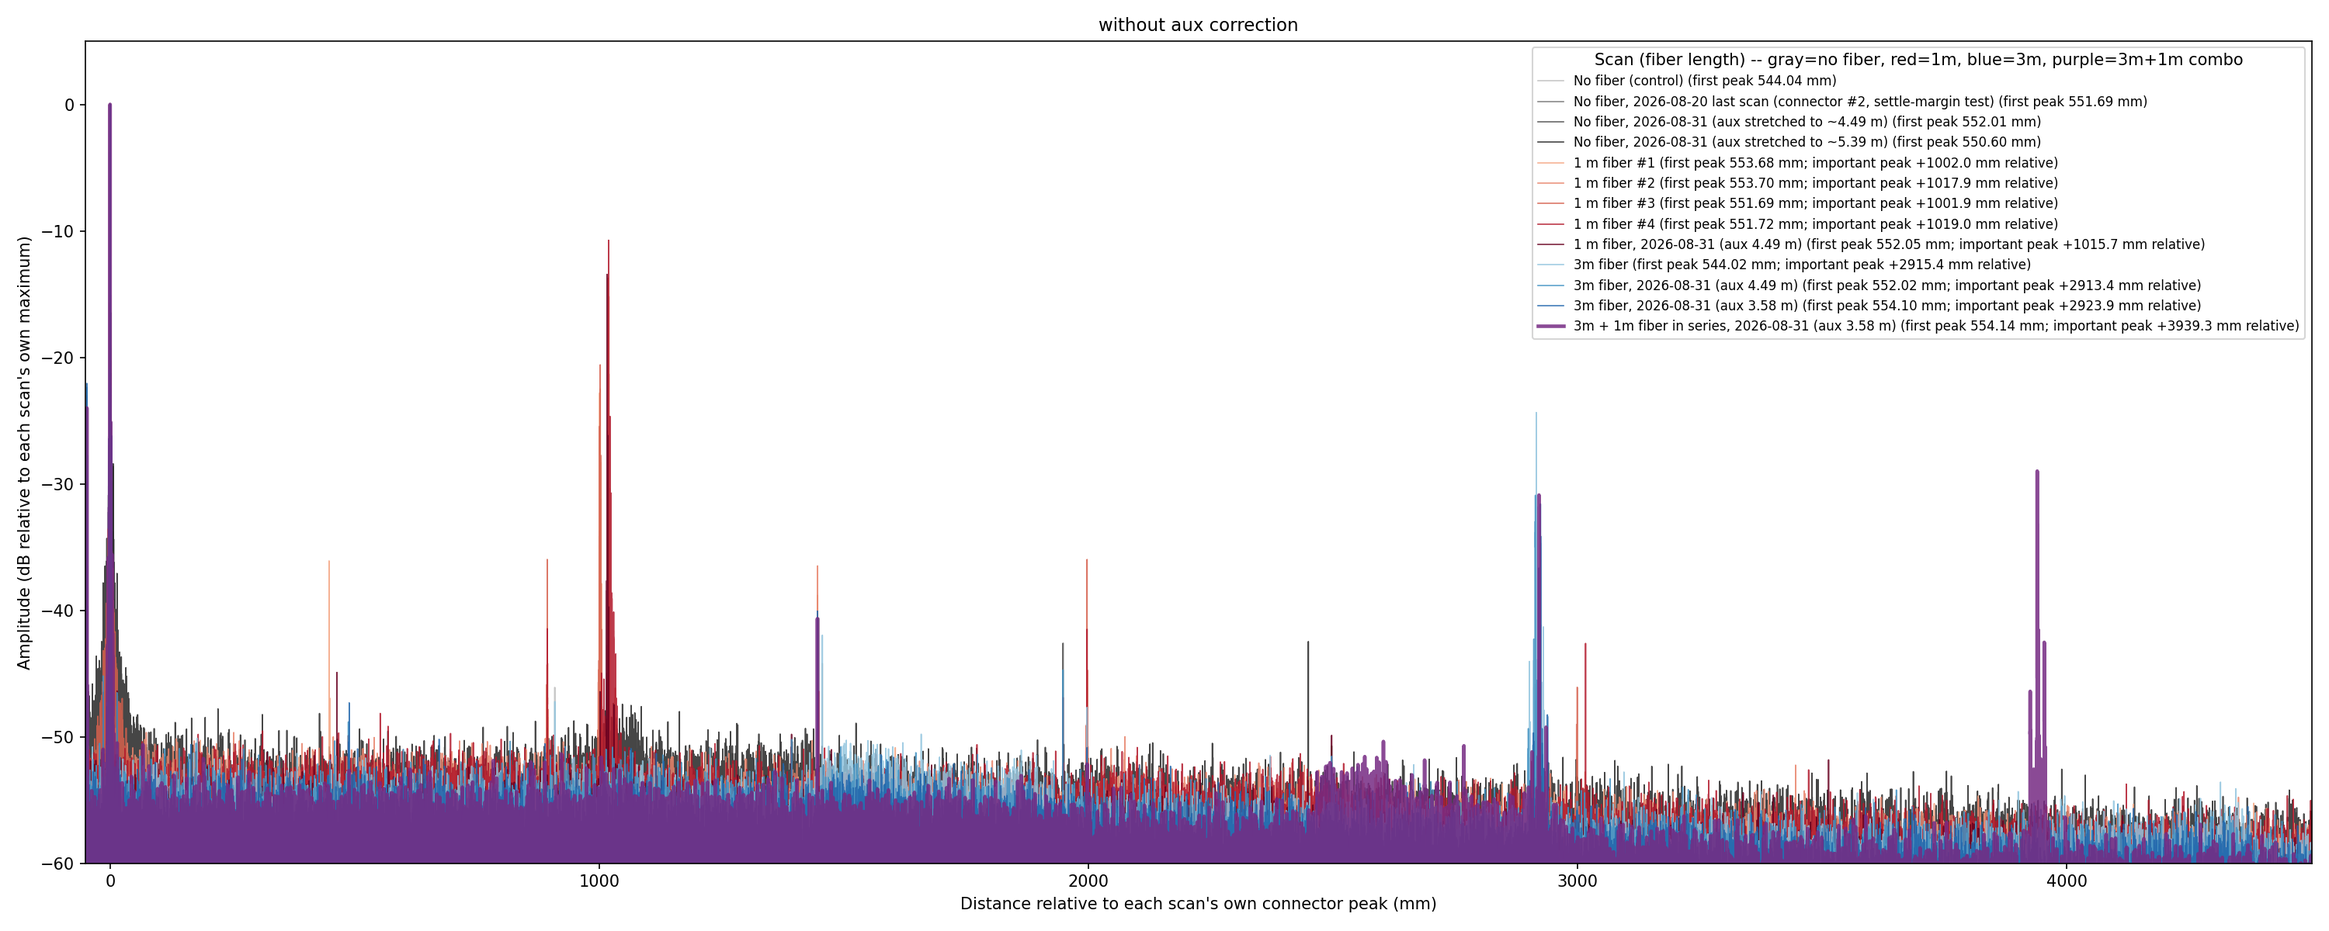
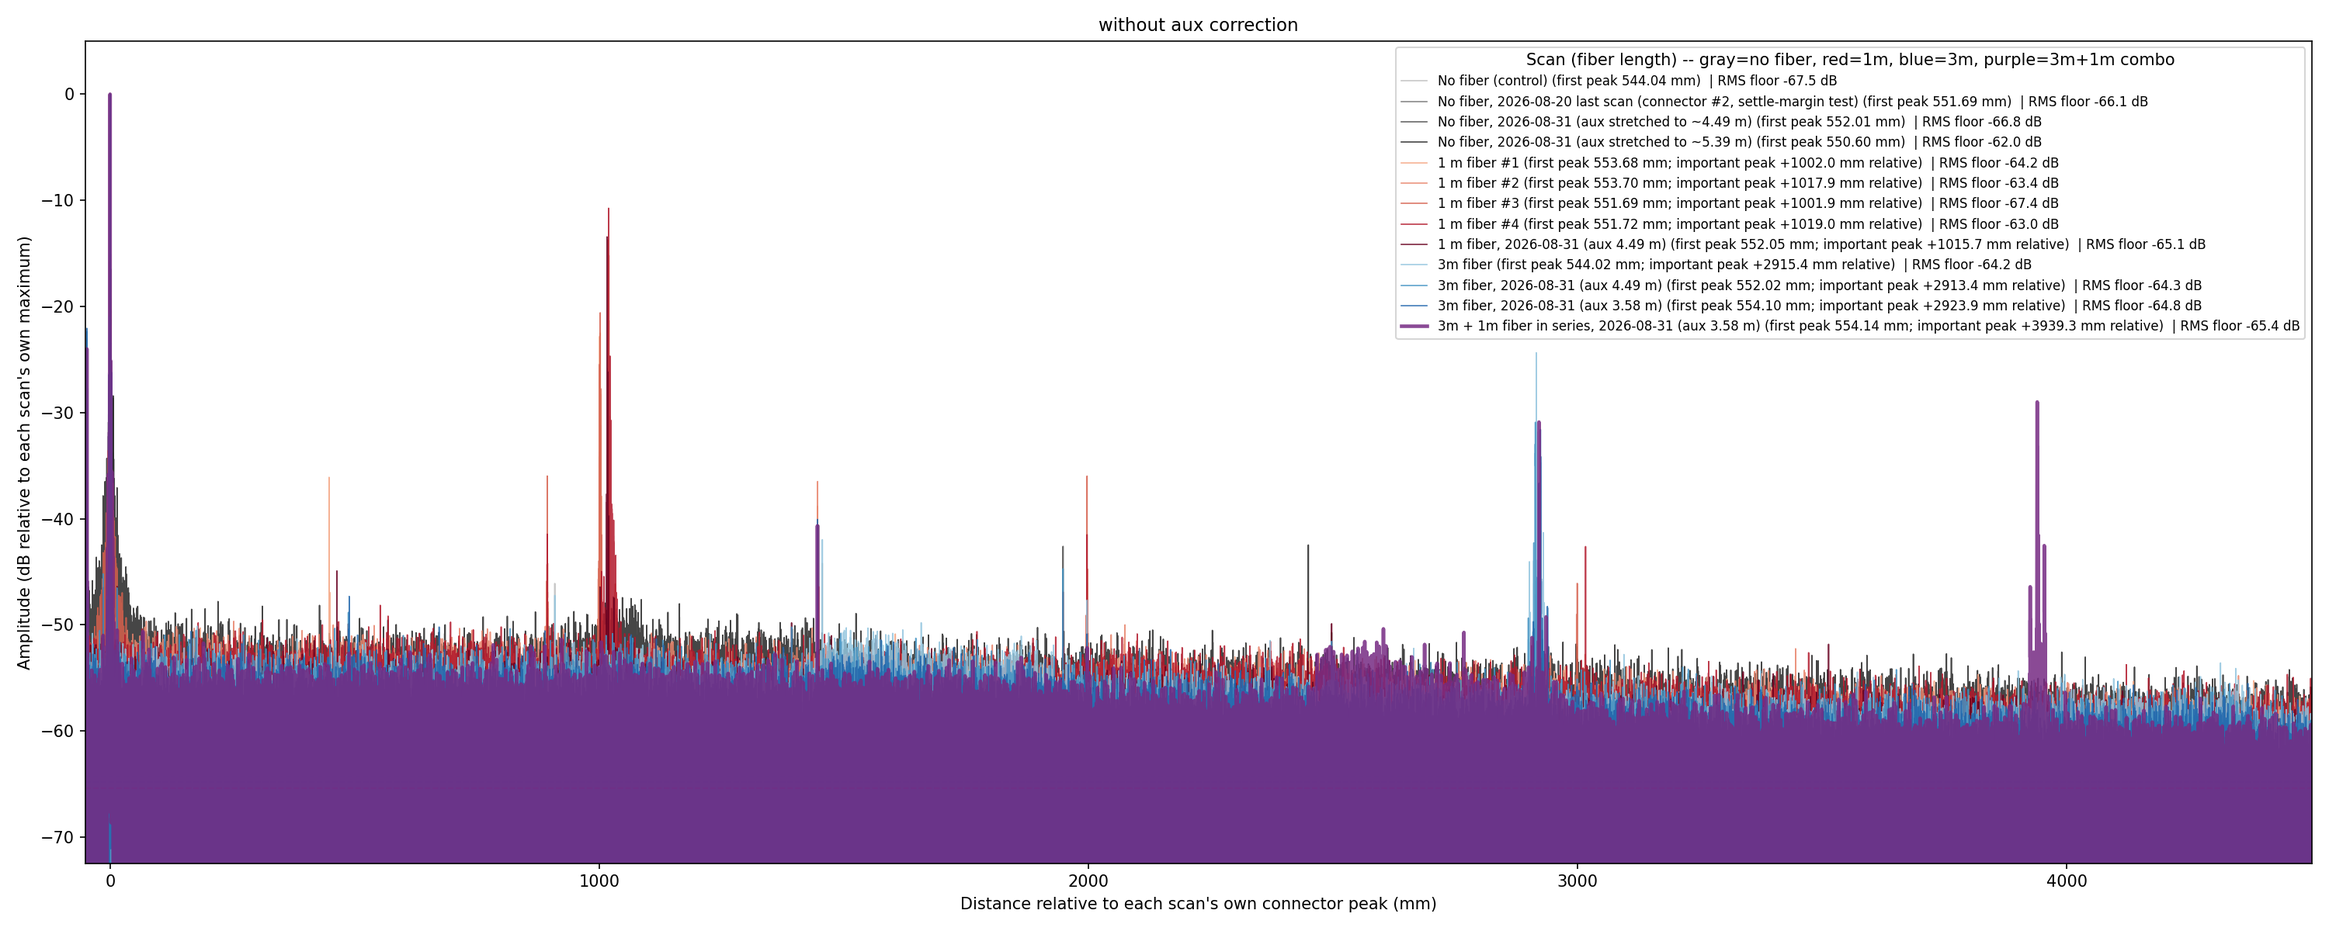
draw the RMS noise floor in every dB reflectogram plot
Extends the previous commit from the chip plots to every script that
draws a dB reflectogram. All of them import noise_floor() from
process_reflectogram_aux -- one definition, no copied code.

  process_reflectogram.py          single line + label
  tools/plot_reflectogram_only.py  single line + label
  tools/plot_chip_chain.py         rows 2 and 3, one line per loop in the
                                   trace's own colour
  tools/plot_band_comparison.py    five traces, values in the legend
  tools/plot_fiber_comparison.py   four comparison plots, per scan
  plot_tuning_diagnosis.py         both traces of the left panel

Fixed y-limits became adaptive where a floor could fall outside them.
Where a plot windows the data to a peak, the floor is still computed over
the full spectrum -- the plotted window is all peak and would not measure
the background at all.

Two independent cross-checks that the arithmetic is right: the same scan
gives -57.7 dB through identify_chip_scan and plot_reflectogram_only, and
2026-08-18_open_end gives -52.4 dB through both process_reflectogram and
plot_band_comparison -- the latter two compute the spectrum by completely
separate paths.

Two things fell out of this that are worth keeping:

- Self-referencing the phase lowers the floor from -46.7 dB to -61.0 dB.
  That is the most direct number yet for what the phase correction buys;
  until now the plot only showed that the peak gets narrower.
[…]

Changed region(s): [[0.0, 0.5242, 0.992, 0.925], [0.589, 0.0617, 0.992, 0.37]]

diff --git a/tools/plot_chip_chain.py b/tools/plot_chip_chain.py
@@ -8,11 +8,17 @@
 
 Aufruf:  python tools/plot_chip_chain.py
 """
+import os
+import sys
+
 import numpy as np
 import matplotlib
 matplotlib.use("Agg")
 import matplotlib.pyplot as plt
 from matplotlib.patches import Rectangle
+
+sys.path.insert(0, os.path.dirname(os.path.dirname(os.path.abspath(__file__))))
+from process_reflectogram_aux import noise_floor   # noqa: E402
 
 NF, NG = 1.468, 3.48033      # Gruppenindex Faser / Chip
 STR = NG / NF                # 1 um on-chip -> 2.3704 um im Reflektogramm
@@ -79,6 +85,12 @@ ax = fig.add_subplot(gs[1])
 z, db = load(v0["csv"])
 m = (z > 450) & (z < 2900)
 ax.plot(z[m], db[m], lw=.45, color=v0["col"])
+nf0 = noise_floor(db)
+ax.axhline(nf0, color="darkviolet", ls="--", lw=1.1, zorder=4)
+ax.annotate("RMS noise floor %.1f dB  (dynamic range %.1f dB)" % (nf0, -nf0),
+            (2890, nf0 + 0.8), fontsize=8, ha="right", va="bottom",
+            color="darkviolet", zorder=5,
+            bbox=dict(fc="white", ec="none", alpha=.75, pad=1.0))
 for x0, x1, c, lab in segs:
     ax.axvspan(x0, x1, color=c, alpha=.35, zorder=0)
 for x, lab in [(v0["ref"], "internal reflection"),
@@ -87,7 +99,7 @@ for x, lab in [(v0["ref"], "internal reflection"),
     ax.axvline(x, color="crimson", ls=":", lw=.9)
     ax.annotate(lab, (x, 8), fontsize=8.5, ha="center", va="bottom", color="crimson")
 ax.set_xlim(450, 2900)
-ax.set_ylim(-70, 26)
+ax.set_ylim(min(-70.0, nf0 - 6.0), 26)
 ax.set_xlabel("distance  [mm]")
 ax.set_ylabel("amplitude  [dB]")
 ax.grid(alpha=.3)
@@ -96,11 +108,17 @@ ax.set_title("2)  THE SAME THING AS MEASURED -- each peak is one reflector, the 
 
 # ---------------------------------------------------------------- Reihe 3
 ax = fig.add_subplot(gs[2])
+nfs = []
 for v in S:
     z, db = load(v["csv"])
     m = (z > v["fa"] - 1.4) & (z < v["fa"] + 9.5)
+    nfv = noise_floor(db)
+    nfs.append(nfv)
     ax.plot(z[m] - v["fa"], db[m], lw=1.1, color=v["col"],
             label="%s loop (%s)" % (v["name"], v["ch"]), zorder=3)
+    ax.axhline(nfv, color=v["col"], ls="--", lw=1.0, alpha=.7, zorder=2)
+    ax.annotate("RMS floor %.1f dB" % nfv, (-3.35, nfv + 0.3), fontsize=7.5,
+                ha="left", va="bottom", color=v["col"], zorder=5)
     ax.axvline(v["dz"], color=v["col"], ls="-", lw=1.6, zorder=2)
 ax.axvline(0, color="crimson", ls="-", lw=1.3, zorder=2)
 ax.annotate("MEASURED PEAK\nfacet A  (x=0 by definition)", (0, -45), fontsize=9,
@@ -128,7 +146,7 @@ for v, ytop in zip(S, (13.2, 5.4)):
     ax.annotate("MODEL, %s loop\nNOT measured" % v["name"], (-3.3, ytop + h / 2),
                 fontsize=8.5, ha="left", va="center", style="italic", color="dimgray")
 ax.set_xlim(-3.4, 9.5)
-ax.set_ylim(-54, 19)
+ax.set_ylim(min([-54.0] + [f - 4.0 for f in nfs]), 19)
 ax.set_xlabel("distance behind facet A  [mm]")
 ax.set_ylabel("amplitude  [dB]")
 ax.grid(alpha=.25)

diff --git a/tools/plot_fiber_comparison.py b/tools/plot_fiber_comparison.py
@@ -29,12 +29,15 @@ logs/2026-08-31.md for the double-bounce interpretation.
 Usage: python tools/plot_fiber_comparison.py
 """
 
+import sys
 from pathlib import Path
 
 import numpy as np
 from scipy.signal import find_peaks
 
 ROOT = Path(__file__).resolve().parent.parent
+sys.path.insert(0, str(ROOT))
+from process_reflectogram_aux import noise_floor   # noqa: E402
 DATE = "2026-08-31"
 OUT = ROOT / "results" / DATE
 
@@ -169,6 +172,7 @@ def plot_comparison(csv_key, mode, out_path, title, subtitle, xlabel):
 
     fig, ax = plt.subplots(figsize=(20, 8))
     color_counts = {cat: 0 for cat in CATEGORY_COLORS}
+    floors = []
 
     for label, category, csv_calibrated, csv_aux_corrected in SCANS:
         csv_path = csv_calibrated if csv_key == "csv" else csv_aux_corrected
@@ -180,14 +184,18 @@ def plot_comparison(csv_key, mode, out_path, title, subtitle, xlabel):
         color_counts[category] += 1
         lw = 2.2 if category == "combo" else 0.8
 
+        nf = noise_floor(db)
+        floors.append(nf)
         ax.plot(x, db, color=color, lw=lw, alpha=0.85,
-                label=legend_label(label, category, first_mm, important_rel_mm))
+                label=legend_label(label, category, first_mm, important_rel_mm)
+                + f"  | RMS floor {nf:.1f} dB")
+        ax.axhline(nf, color=color, ls="--", lw=0.9, alpha=0.5)
 
     ax.set_xlabel(xlabel)
     ax.set_ylabel("Amplitude (dB relative to each scan's own maximum)")
     ax.set_title(f"{title}\n{subtitle}" if subtitle else title, fontsize=11)
     ax.legend(fontsize=8, title="Scan (fiber length) -- gray=no fiber, red=1m, blue=3m, purple=3m+1m combo")
-    ax.set_ylim(-60, 5)
+    ax.set_ylim(min([-60.0] + [f - 5.0 for f in floors]), 5)
     if mode == "relative":
         ax.set_xlim(-50, 4500)
     else:
@@ -210,7 +218,10 @@ def plot_nofiber_family(out_path):
     for ax, (xmin, xmax), sub_title in zip(axes, ranges, titles):
         for label, csv_path, color, alpha, lw in NOFIBER_FAMILY_SCANS:
             z_mm, db = load_csv(csv_path)
-            ax.plot(z_mm, db, color=color, alpha=alpha, lw=lw, label=label)
+            nf = noise_floor(db)
+            ax.plot(z_mm, db, color=color, alpha=alpha, lw=lw,
+                    label=f"{label}  | RMS floor {nf:.1f} dB")
+            ax.axhline(nf, color=color, ls="--", lw=0.9, alpha=0.5)
         ax.axvline(REFLECTOR_587_MM, color="gray", ls="--", lw=1)
         ax.axvline(REFLECTOR_518_MM, color="gray", ls=":", lw=1)
         ax.set_xlim(xmin, xmax)

diff --git a/plot_tuning_diagnosis.py b/plot_tuning_diagnosis.py
@@ -23,6 +23,7 @@ import numpy as np
 from scipy.signal.windows import kaiser
 
 import process_reflectogram as op
+from process_reflectogram_aux import noise_floor
 
 C = op.C
 NG = op.NG
@@ -74,10 +75,19 @@ def main():
 
     mL = (z_none * 1000 >= xlo) & (z_none * 1000 <= xhi)
     mC = (z_cos * 1000 >= xlo) & (z_cos * 1000 <= xhi)
-    axL.plot(z_none[mL] * 1000, db_none[mL], label="EXFO grid (as recorded)")
-    axL.plot(z_cos[mC] * 1000, db_cos[mC], label="self-referenced phase")
+    lnA, = axL.plot(z_none[mL] * 1000, db_none[mL], label="EXFO grid (as recorded)")
+    lnB, = axL.plot(z_cos[mC] * 1000, db_cos[mC], label="self-referenced phase")
+    # over the full spectrum, not the plotted +-1 mm window: that window is
+    # all peak and would not measure the background at all
+    nf_none, nf_cos = noise_floor(db_none), noise_floor(db_cos)
+    for nfv, ln in ((nf_none, lnA), (nf_cos, lnB)):
+        axL.axhline(nfv, color=ln.get_color(), ls="--", lw=1.0, alpha=.85)
+    axL.annotate("RMS noise floor  %.1f / %.1f dB" % (nf_none, nf_cos),
+                 (xhi, max(nf_none, nf_cos)), fontsize=8, ha="right",
+                 va="bottom", color="dimgray",
+                 bbox=dict(fc="white", ec="none", alpha=.75, pad=1.0))
     axL.set_xlim(xlo, xhi)
-    axL.set_ylim(-60, 3)
+    axL.set_ylim(min(-60.0, min(nf_none, nf_cos) - 5.0), 3)
     axL.set_xlabel("apparent distance (mm)")
     axL.set_ylabel("dB rel. max")
     axL.set_title(f"MZI peak, {imbalance_cm:.2f} cm imbalance")

diff --git a/tools/plot_band_comparison.py b/tools/plot_band_comparison.py
@@ -17,6 +17,7 @@ import numpy as np
 
 sys.path.insert(0, str(Path(__file__).resolve().parent.parent))
 import diagnose_artifacts as da
+from process_reflectogram_aux import noise_floor
 
 RAW = Path(__file__).resolve().parent.parent / "raw_data"
 OUT = Path(__file__).resolve().parent.parent / "results" / "2026-08-18"
@@ -36,13 +37,18 @@ def main():
     import matplotlib.pyplot as plt
 
     fig, ax = plt.subplots(figsize=(12, 5.5))
-    print(f"{'condition':25s} {'median dB':>10s} {'max dB':>10s}")
+    print(f"{'condition':25s} {'median dB':>10s} {'max dB':>10s} {'RMS floor':>10s}")
     for path, label in FILES:
         z, R = da.spectrum_diag(*da.preprocess(*da.load(str(path))))
         db = 20 * np.log10(R / R.max() + 1e-15)
         m = (z >= 0.06) & (z <= 0.32)
-        ax.plot(z[m] * 100, db[m], lw=0.6, label=label, alpha=0.8)
-        print(f"{label:25s} {np.median(db[m]):10.1f} {db[m].max():10.1f}")
+        # over the whole spectrum: the 6-32 cm window is the dirt band under
+        # study, so its own level is the signal here, not the background
+        nf = noise_floor(db)
+        ln, = ax.plot(z[m] * 100, db[m], lw=0.6, alpha=0.8,
+                      label="%s  (RMS floor %.1f dB)" % (label, nf))
+        ax.axhline(nf, color=ln.get_color(), ls="--", lw=0.9, alpha=0.55)
+        print(f"{label:25s} {np.median(db[m]):10.1f} {db[m].max():10.1f} {nf:10.1f}")
 
     ax.set_xlabel("apparent distance (cm)")
     ax.set_ylabel("dB rel. own max")

diff --git a/process_reflectogram.py b/process_reflectogram.py
@@ -44,6 +44,8 @@ from scipy.ndimage import uniform_filter1d
 from scipy.signal import find_peaks
 from scipy.signal.windows import kaiser, hann, blackmanharris
 
+from process_reflectogram_aux import noise_floor
+
 C = 299_792_458.0
 NG = 1.468          # SMF-28 group index near 1550 nm
 STEP_M = 1e-12      # nominal trigger step: 1 pm
@@ -240,6 +242,8 @@ def main():
 
     prefix = args.out or args.scan.rsplit(".", 1)[0]
     keep = z <= zmax
+    nf = noise_floor(db[keep])
+    print(f"\nRMS noise floor {nf:.1f} dB   -> dynamic range {-nf:.1f} dB")
     np.savetxt(f"{prefix}_reflectogram.csv",
                np.column_stack([z[keep], db[keep]]), delimiter=",",
                header="distance_m,amplitude_dB", comments="")
@@ -251,6 +255,11 @@ def main():
         import matplotlib.pyplot as plt
         fig, ax = plt.subplots(figsize=(11, 5))
         ax.plot(z[keep] * 1000, db[keep], lw=0.6)
+        ax.axhline(nf, color="darkviolet", ls="--", lw=1.1, zorder=4)
+        ax.annotate(f"RMS noise floor {nf:.1f} dB  (dynamic range {-nf:.1f} dB)",
+                    (z[keep][-1] * 1000, nf), fontsize=8.5, ha="right",
+                    va="bottom", color="darkviolet",
+                    bbox=dict(fc="white", ec="none", alpha=.75, pad=1.0))
         ax.set_xlabel("distance (mm, fiber one-way / reflection convention)")
         ax.set_ylabel("amplitude (dB rel. max)")
         ax.set_title(f"{args.scan}  |  mode={args.mode}, {args.window}, "

diff --git a/tools/plot_reflectogram_only.py b/tools/plot_reflectogram_only.py
@@ -77,8 +77,15 @@ def make_plot(a):
     import matplotlib
     matplotlib.use("Agg")
     import matplotlib.pyplot as plt
+    nf = pra.noise_floor(db[keep])
+    print(f"RMS noise floor {nf:.1f} dB   -> dynamic range {-nf:.1f} dB")
     fig, ax = plt.subplots(figsize=(11, 5))
     ax.plot(z[keep], db[keep], lw=0.6)
+    ax.axhline(nf, color="darkviolet", ls="--", lw=1.1, zorder=4)
+    ax.annotate(f"RMS noise floor {nf:.1f} dB  (dynamic range {-nf:.1f} dB)",
+                (z[keep][-1], nf), fontsize=8.5, ha="right", va="bottom",
+                color="darkviolet",
+                bbox=dict(fc="white", ec="none", alpha=.75, pad=1.0))
     ax.set_xlabel("Distance (m, one-way / reflection convention)")
     ax.set_ylabel("Amplitude (dB rel. maximum)")
     ax.set_title(f"{a.scan} | aux-referenced, {a.window}, "

diff --git a/logs/2026-09-14.md b/logs/2026-09-14.md
@@ -699,3 +699,159 @@ liegt 3.5–4.2 dB UEBER der RMS-Linie. Das ist kein Fehler, sondern
 Plot-Aufloesung: bei 180 000 Punkten auf 1300 Pixel zeigt jedes Pixel das
 Maximum von ~25 Samples. Die RMS-Linie ist der physikalische Pegel, das
 sichtbare Band die Max-Huellkurve.
+
+## 17:40 — `2026-09-14-16-41_Ligentecfiber45`, Faser 45 = Kanal 51
+
+Dritter Ligentec-Scan. Kanal 51 haengt wie Kanal 52 an comp265, ist also
+ebenfalls einseitig — Faser 44 und 45 sind Nachbarkanaele in derselben
+22-Port-Komponente.
+
+tau_aux = 20.6332 ns, wie gehabt.
+
+**Dieser Scan verhaelt sich qualitativ anders als die beiden davor.**
+
+| Groesse (alles rel. internem Reflex 529.43 mm) | fiber1 | fiber44 | fiber45 | Kontrolle |
+|---|---|---|---|---|
+| Hauptreflex [mm] | 1582.818 | 1580.416 | 1582.842 | — |
+| Pegel Hauptreflex [dB] | +43.8 | +47.9 | **+37.5** | −30.1 |
+| −3 dB-Breite Hauptreflex [µm] | 49.8 | 49.8 | **99.5** | — |
+| Median ruhiges Fenster 1200–1500 | −27.1 | −23.3 | **−15.9** | −40.1 |
+| Median Chip-Fenster 1575–1592 | −13.5 | −15.6 | **+16.7** | −40.4 |
+| Kontrast Chip − ruhig | 13.5 | 7.7 | **32.7** | −0.2 |
+| Autokorrelation, staerkster Lag | 0.4977 (r 0.34) | 1.0285 (r 0.05) | 0.2820 (r **0.50**) | — |
+
+**Frequenzachse geprueft und in Ordnung.** Die Pipeline warnt bei fiber45
+"main peak > 2x window limit". Das ist aber kein Achsenfehler: die Breite
+des *internen* Reflexes bei 529.43 mm — derselbe Reflektor in allen Scans —
+betraegt
+
+| Scan | −3 dB-Breite des internen Reflexes |
+|---|---|
+| fiber1 | 16.6 µm |
+| fiber44 | 33.2 µm |
+| **fiber45** | **16.6 µm** = Aufloesungsgrenze |
+| Kontrolle | 16.6 µm |
+
+Die Achse ist bei fiber45 also sauber. Die 99.5 µm am Hauptpeak bedeuten,
+dass das Objekt bei 1582.84 mm wirklich kein Einzelreflektor ist.
+
+**Aber:** der Rauschboden des ganzen Scans liegt ~12 dB ueber fiber44 und
+~11 dB ueber fiber1 (ruhiges Fenster −15.9 statt −23.3/−27.1 dB), und der
+Hauptreflex ist 10 dB schwaecher. Die erhoehte Region reicht von ~1550 bis
+~1605 mm, also **ueber 55 mm**, mit Maximum bei 1580–1590 und Abfall nach
+beiden Seiten — auch *vor* dem Hauptreflex, wo kein Chipsignal sein kann.
+
+Plot `results/2026-09-14/ligentec_alle_kanaele.png`: alle vier Scans
+gemeinsam normiert. Der Sockel um 1580 mm hat bei allen dreien dieselbe
+Form, nur auf verschiedenem Niveau.
+
+**Bewertung:** fiber45 ist der erste Scan mit deutlich verteiltem Signal
+statt einer einzelnen Spitze, und der Kontrast von 32.7 dB gegen den
+eigenen Untergrund ist echt. Ob das Chipsignal oder schlechtere
+Scanqualitaet ist, ist mit drei Messungen **nicht entschieden** — dagegen
+spricht die Symmetrie um den Hauptreflex und der um 11–12 dB angehobene
+Boden, dafuer der saubere interne Reflex und der hohe Kontrast.
+
+**Naechster Schritt: fiber45 wiederholen.** Reproduziert sich das Bild,
+ist es der Chip; sieht es aus wie fiber44, war es Scanqualitaet. Das
+kostet eine Messung und entscheidet die Frage.
+
+## 17:55 — `2026-09-14-16-50_Ligentecfiber45neu`: Wiederholung entscheidet — kein Chipsignal
+
+Wiederholung von Faser 45 / Kanal 51, wie um 17:40 vorgeschlagen.
+tau_aux = 20.6333 ns.
+
+| Groesse (rel. internem Reflex 529.43 mm) | fiber45 **alt** | fiber45 **neu** |
+|---|---|---|
+| Hauptreflex | 1582.842 mm | 1582.745 mm |
+| Pegel | +37.5 dB | **+48.2 dB** |
+| −3 dB-Breite Hauptreflex | 99.5 µm | **49.8 µm** |
+| RMS-Rauschboden | −56.6 dB | **−70.8 dB** |
+| Median ruhig 1200–1500 | −15.9 | −22.8 |
+| Kontrast Chip − ruhig | 32.7 dB | 26.4 dB |
+
+Der neue Scan ist deutlich sauberer: Hauptreflex wieder ein Einzelreflektor
+(49.8 µm statt 99.5), Rauschboden 14 dB besser. Der erhoehte Kontrast im
+Chip-Fenster bleibt aber bestehen — zunaechst sah das nach reproduziertem
+Chipsignal aus.
+
+**Der Vergleich bei gleichem absolutem z war aber falsch**, weil die
+Hauptreflexe von fiber44 (1580.416) und fiber45 (1582.745) 2.33 mm
+auseinanderliegen. Richtig ist, jeden Scan auf SEINEN eigenen Hauptreflex
+zu zentrieren. Dann sieht es so aus (Median je 2 mm, rel. internem Reflex):
+
+| rel. eigener Peak [mm] | f45neu | f45alt | fiber44 | fiber1 | f45neu − fiber44 |
+|---|---|---|---|---|---|
+| −12 … −10 | −9.5 | +7.7 | −23.9 | −16.9 | **+14.4** |
+| −8 … −6 | +3.5 | +12.4 | −13.5 | −18.7 | **+17.0** |
+| −4 … −2 | +2.4 | +19.2 | −18.3 | −13.0 | **+20.7** |
+| −2 … 0 | +9.3 | +24.4 | −0.3 | +0.2 | +9.6 |
+| 0 … +2 | +9.0 | +21.9 | +5.1 | +5.2 | +3.9 |
+| +2 … +4 | +3.8 | +18.5 | −14.5 | −11.6 | **+18.3** |
+| +6 … +8 | +0.1 | +14.2 | −14.3 | −18.1 | **+14.4** |
+| +10 … +12 | −11.3 | +8.9 | −24.8 | −21.9 | **+13.5** |
+
+**Der Ueberschuss von fiber45 ist symmetrisch um den Hauptreflex** — vor
+dem Reflex genauso gross wie dahinter. Vor dem Reflex kann aber
+grundsaetzlich kein Chipsignal liegen. Es ist also ein verbreiterter
+Instrumentenrock, kein Licht aus dem Chip. Beide fiber45-Scans zeigen ihn,
+fiber1 und fiber44 nicht; fiber1 und fiber44 liegen ihrerseits praktisch
+uebereinander.
+
+Plot `results/2026-09-14/ligentec_zentriert_vergleich.png`.
+
+**Damit ist der Stand nach vier Messungen eindeutig: in keinem der drei
+gemessenen Kanaele (95, 52, 51) kommt Licht aus dem Chip zurueck.** Was
+gemessen wird, ist der Reflex an der Faserspitze plus Instrumentenrock,
+bei fiber1 zusaetzlich ein zweiter Reflex 0.73 mm dahinter (Luftspalt).
+
+**Diagnostik, die sich hier bewaehrt hat und wiederverwendbar ist:**
+Ueberschuss gegen einen Referenzkanal auf den *eigenen* Hauptreflex
+zentriert auftragen. Symmetrisch = Artefakt, einseitig nach rechts =
+Chipsignal. Das trennt sauber und braucht keine Annahme ueber n_chip.
+
+### Noise Floor jetzt in JEDEM Plot, nicht nur im Chip-Plot
+
+Nachtrag: der Floor wurde auf alle Skripte ausgeweitet, die ein
+dB-Reflektogramm zeichnen. `noise_floor()` liegt in
+`process_reflectogram_aux.py` und wird von allen importiert — eine
+Definition, kein kopierter Code.
+
+| Skript | Plot | Umsetzung |
+|---|---|---|
+| `process_reflectogram_aux.py` | `_reflectogram.png` | eine Linie + Label |
+| `process_reflectogram.py` | `_reflectogram.png` | eine Linie + Label |
+| `tools/plot_reflectogram_only.py` | `_reflectogram.png` | eine Linie + Label |
+| `tools/identify_chip_scan.py` | `_chain.png` Reihe 2 + 3 | Linie, plus SNR von Facette A/B |
+| `tools/plot_chip_chain.py` | `measured_loops_explained.png` Reihe 2 + 3 | je Kurve eine Linie in Kurvenfarbe |
+| `tools/plot_band_comparison.py` | `band_6_32cm_comparison.png` | 5 Linien, Werte in der Legende |
+| `tools/plot_fiber_comparison.py` | 4 Vergleichsplots | je Scan eine Linie, Werte in der Legende |
+| `tools/analyze_ligentec_loopback.py` | `_ligentec.png` 1)–3) | eine Linie ueber alle drei Reihen |
+
+Nicht eingezeichnet: Reihe 4 von `plot_chip_chain.py` (zeigt nur ±75 µm um
+den Peak, also reine Peakflanke ohne Untergrund — dort gibt es kein
+Rauschen zu messen), sowie alle Plots mit linearer Achse in mW/µW/pm
+(`check_aux_interferometer.py`, `plot_bandpass_peak.py`,
+`find_coredaq_buffer_time.py`) und die Autokorrelation.
+
+Zwei unabhaengige Querchecks, dass die Rechnung stimmt:
+
+| Scan | Skript A | Skript B | Differenz |
+|---|---|---|---|
+| `2026-09-14-09-35_fiber32` | identify_chip_scan −57.7 dB | plot_reflectogram_only −57.7 dB | 0.0 dB |
+| `2026-08-18_open_end` | process_reflectogram −52.4 dB | plot_band_comparison −52.4 dB | 0.0 dB |
+
+Der zweite ist der staerkere: die beiden Skripte rechnen das Spektrum ueber
+voellig verschiedene Pfade (`process_reflectogram` vs.
+`diagnose_artifacts.spectrum_diag`) und kommen auf denselben Floor.
+
+Nebenbefund aus `plot_tuning_diagnosis.py`: die Selbstreferenzierung der
+Phase senkt den Floor von **−46.7 dB auf −61.0 dB**, also 14.3 dB. Das ist
+die bisher direkteste Zahl dafuer, was die Phasenkorrektur ueberhaupt
+bringt — vorher war im Plot nur zu sehen, dass der Peak schmaler wird.
+
+Weiterer Nebenbefund aus `plot_band_comparison.py`: im 6–32-cm-Schmutzband
+liegt das dB-Median nur 0.2–1.3 dB unter dem RMS-Floor. Bei reinem
+Rayleigh-Rauschen muessten es 2.5 dB sein. Das Band ist also **nicht**
+nur Rauschen, sondern traegt echten Inhalt — konsistent damit, dass es als
+Artefaktband gefuehrt wird.
